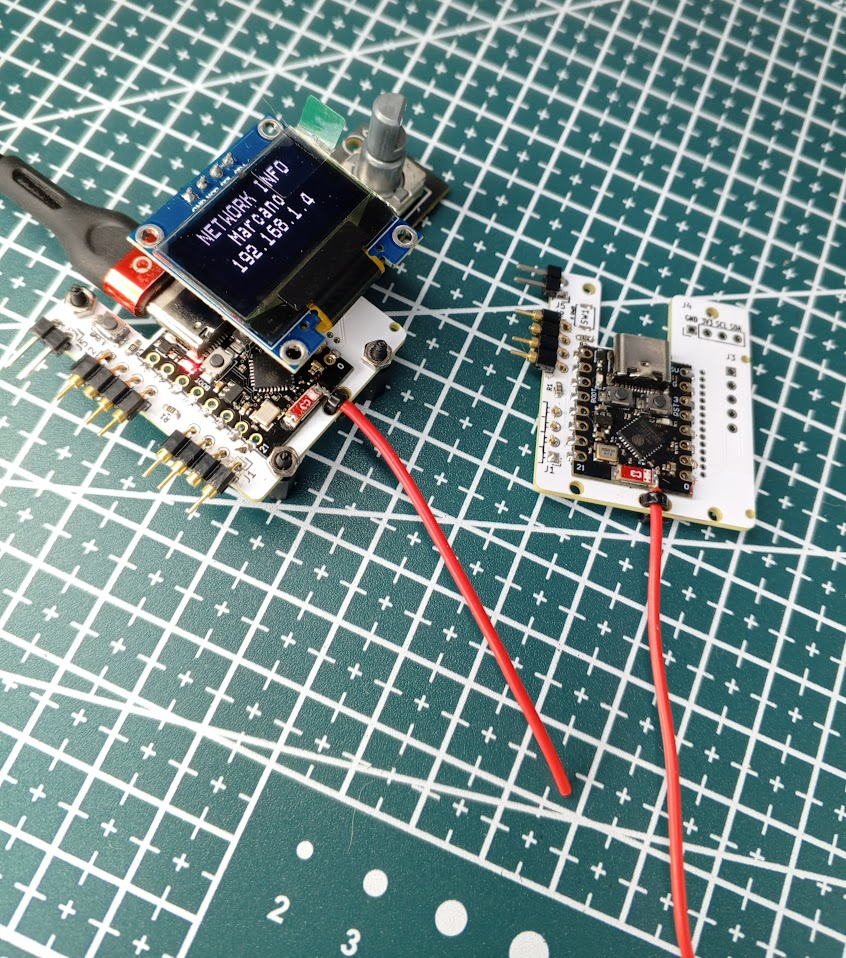
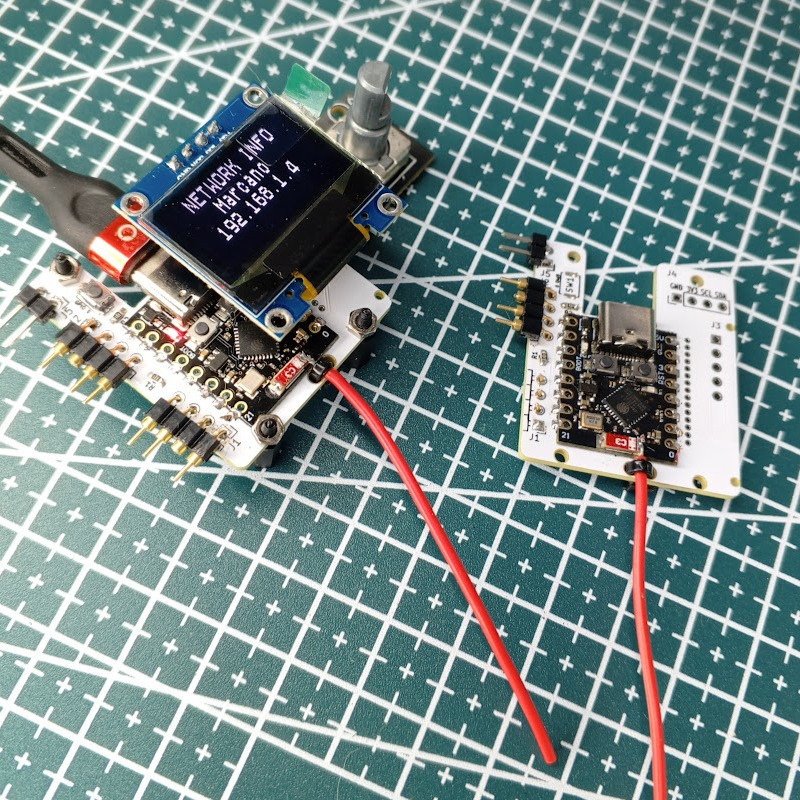
8

diff --git a/site/index.html b/site/index.html
@@ -192,26 +192,26 @@
 <div style="display: flex; justify-content: space-between; align-items: center;">
 
   <div style="flex: 1; text-align: center; margin: 0 10px;">
-    <img src="images/IMG_20241215_060320_693.jpg" alt="Imagen 2" style="max-width: 70%; height: auto;width: auto;"> 
+    <img src="images/IMG_20241215_060320_693.jpg" alt="Imagen 2" style="max-width: 90%; height: auto;width: auto;"> 
   </div>
   <div style="flex: 1; text-align: center; margin: 0 10px;">
-    <img src="images/IMG_20241210_113155_811.jpg" alt="Imagen 3" style="max-width: 70%; height: auto;width: auto;">
+    <img src="images/IMG_20241210_113155_811.jpg" alt="Imagen 3" style="max-width: 90%; height: auto;width: auto;">
   </div>
 </div>
 
 <div style="display: flex; justify-content: space-between; align-items: center;">
 
   <div style="flex: 1; text-align: center; margin: 0 10px;">
-    <img src="images/IMG_20241215_121028_459.jpg" alt="Imagen 2" style="max-width: 70%; height: auto;width: auto;">
+    <img src="images/IMG_20241215_121028_459.jpg" alt="Imagen 2" style="max-width: 90%; height: auto;width: auto;">
   </div>
   <div style="flex: 1; text-align: center; margin: 0 10px;">
-    <img src="images/IMG_20241210_192843_833.jpg" alt="Imagen 3" style="max-width: 70%; height: auto;width: auto;">
+    <img src="images/IMG_20241210_192843_833.jpg" alt="Imagen 3" style="max-width: 90%; height: auto;width: auto;">
   </div>
 </div>
 
 <h2 id="screenshots-capturas-de-pantalla">Screenshots (capturas de pantalla)</h2>
 <div style="flex: 1; text-align: center; margin: 0 10px;">
-    <img src="images/Screenshot_6.jpg" alt="Imagen 1" style="max-width: 80%; height: auto;width: auto;">
+    <img src="images/Screenshot_6.jpg" alt="Imagen 1" style="max-width: 90%; height: auto;width: auto;">
     <p>Menú principal en PC</p>
 </div>
 
@@ -307,5 +307,5 @@
 
 <!--
 MkDocs version : 1.6.1
-Build Date UTC : 2024-12-19 14:40:24.877245+00:00
+Build Date UTC : 2024-12-19 15:38:43.780872+00:00
 -->

diff --git a/docs/index.md b/docs/index.md
@@ -109,20 +109,20 @@ Es recomendable pero opcional configurar la red local wifi, añadiendo SSID y pa
 <div style="display: flex; justify-content: space-between; align-items: center;">
 
   <div style="flex: 1; text-align: center; margin: 0 10px;">
-    <img src="images/IMG_20241215_060320_693.jpg" alt="Imagen 2" style="max-width: 70%; height: auto;width: auto;"> 
+    <img src="images/IMG_20241215_060320_693.jpg" alt="Imagen 2" style="max-width: 90%; height: auto;width: auto;"> 
   </div>
   <div style="flex: 1; text-align: center; margin: 0 10px;">
-    <img src="images/IMG_20241210_113155_811.jpg" alt="Imagen 3" style="max-width: 70%; height: auto;width: auto;">
+    <img src="images/IMG_20241210_113155_811.jpg" alt="Imagen 3" style="max-width: 90%; height: auto;width: auto;">
   </div>
 </div>
 
 <div style="display: flex; justify-content: space-between; align-items: center;">
 
   <div style="flex: 1; text-align: center; margin: 0 10px;">
-    <img src="images/IMG_20241215_121028_459.jpg" alt="Imagen 2" style="max-width: 70%; height: auto;width: auto;">
+    <img src="images/IMG_20241215_121028_459.jpg" alt="Imagen 2" style="max-width: 90%; height: auto;width: auto;">
   </div>
   <div style="flex: 1; text-align: center; margin: 0 10px;">
-    <img src="images/IMG_20241210_192843_833.jpg" alt="Imagen 3" style="max-width: 70%; height: auto;width: auto;">
+    <img src="images/IMG_20241210_192843_833.jpg" alt="Imagen 3" style="max-width: 90%; height: auto;width: auto;">
   </div>
 </div>
 
@@ -130,7 +130,7 @@ Es recomendable pero opcional configurar la red local wifi, añadiendo SSID y pa
 ## Screenshots (capturas de pantalla)
 
 <div style="flex: 1; text-align: center; margin: 0 10px;">
-    <img src="images/Screenshot_6.jpg" alt="Imagen 1" style="max-width: 80%; height: auto;width: auto;">
+    <img src="images/Screenshot_6.jpg" alt="Imagen 1" style="max-width: 90%; height: auto;width: auto;">
     <p>Menú principal en PC</p>
 </div>
 
